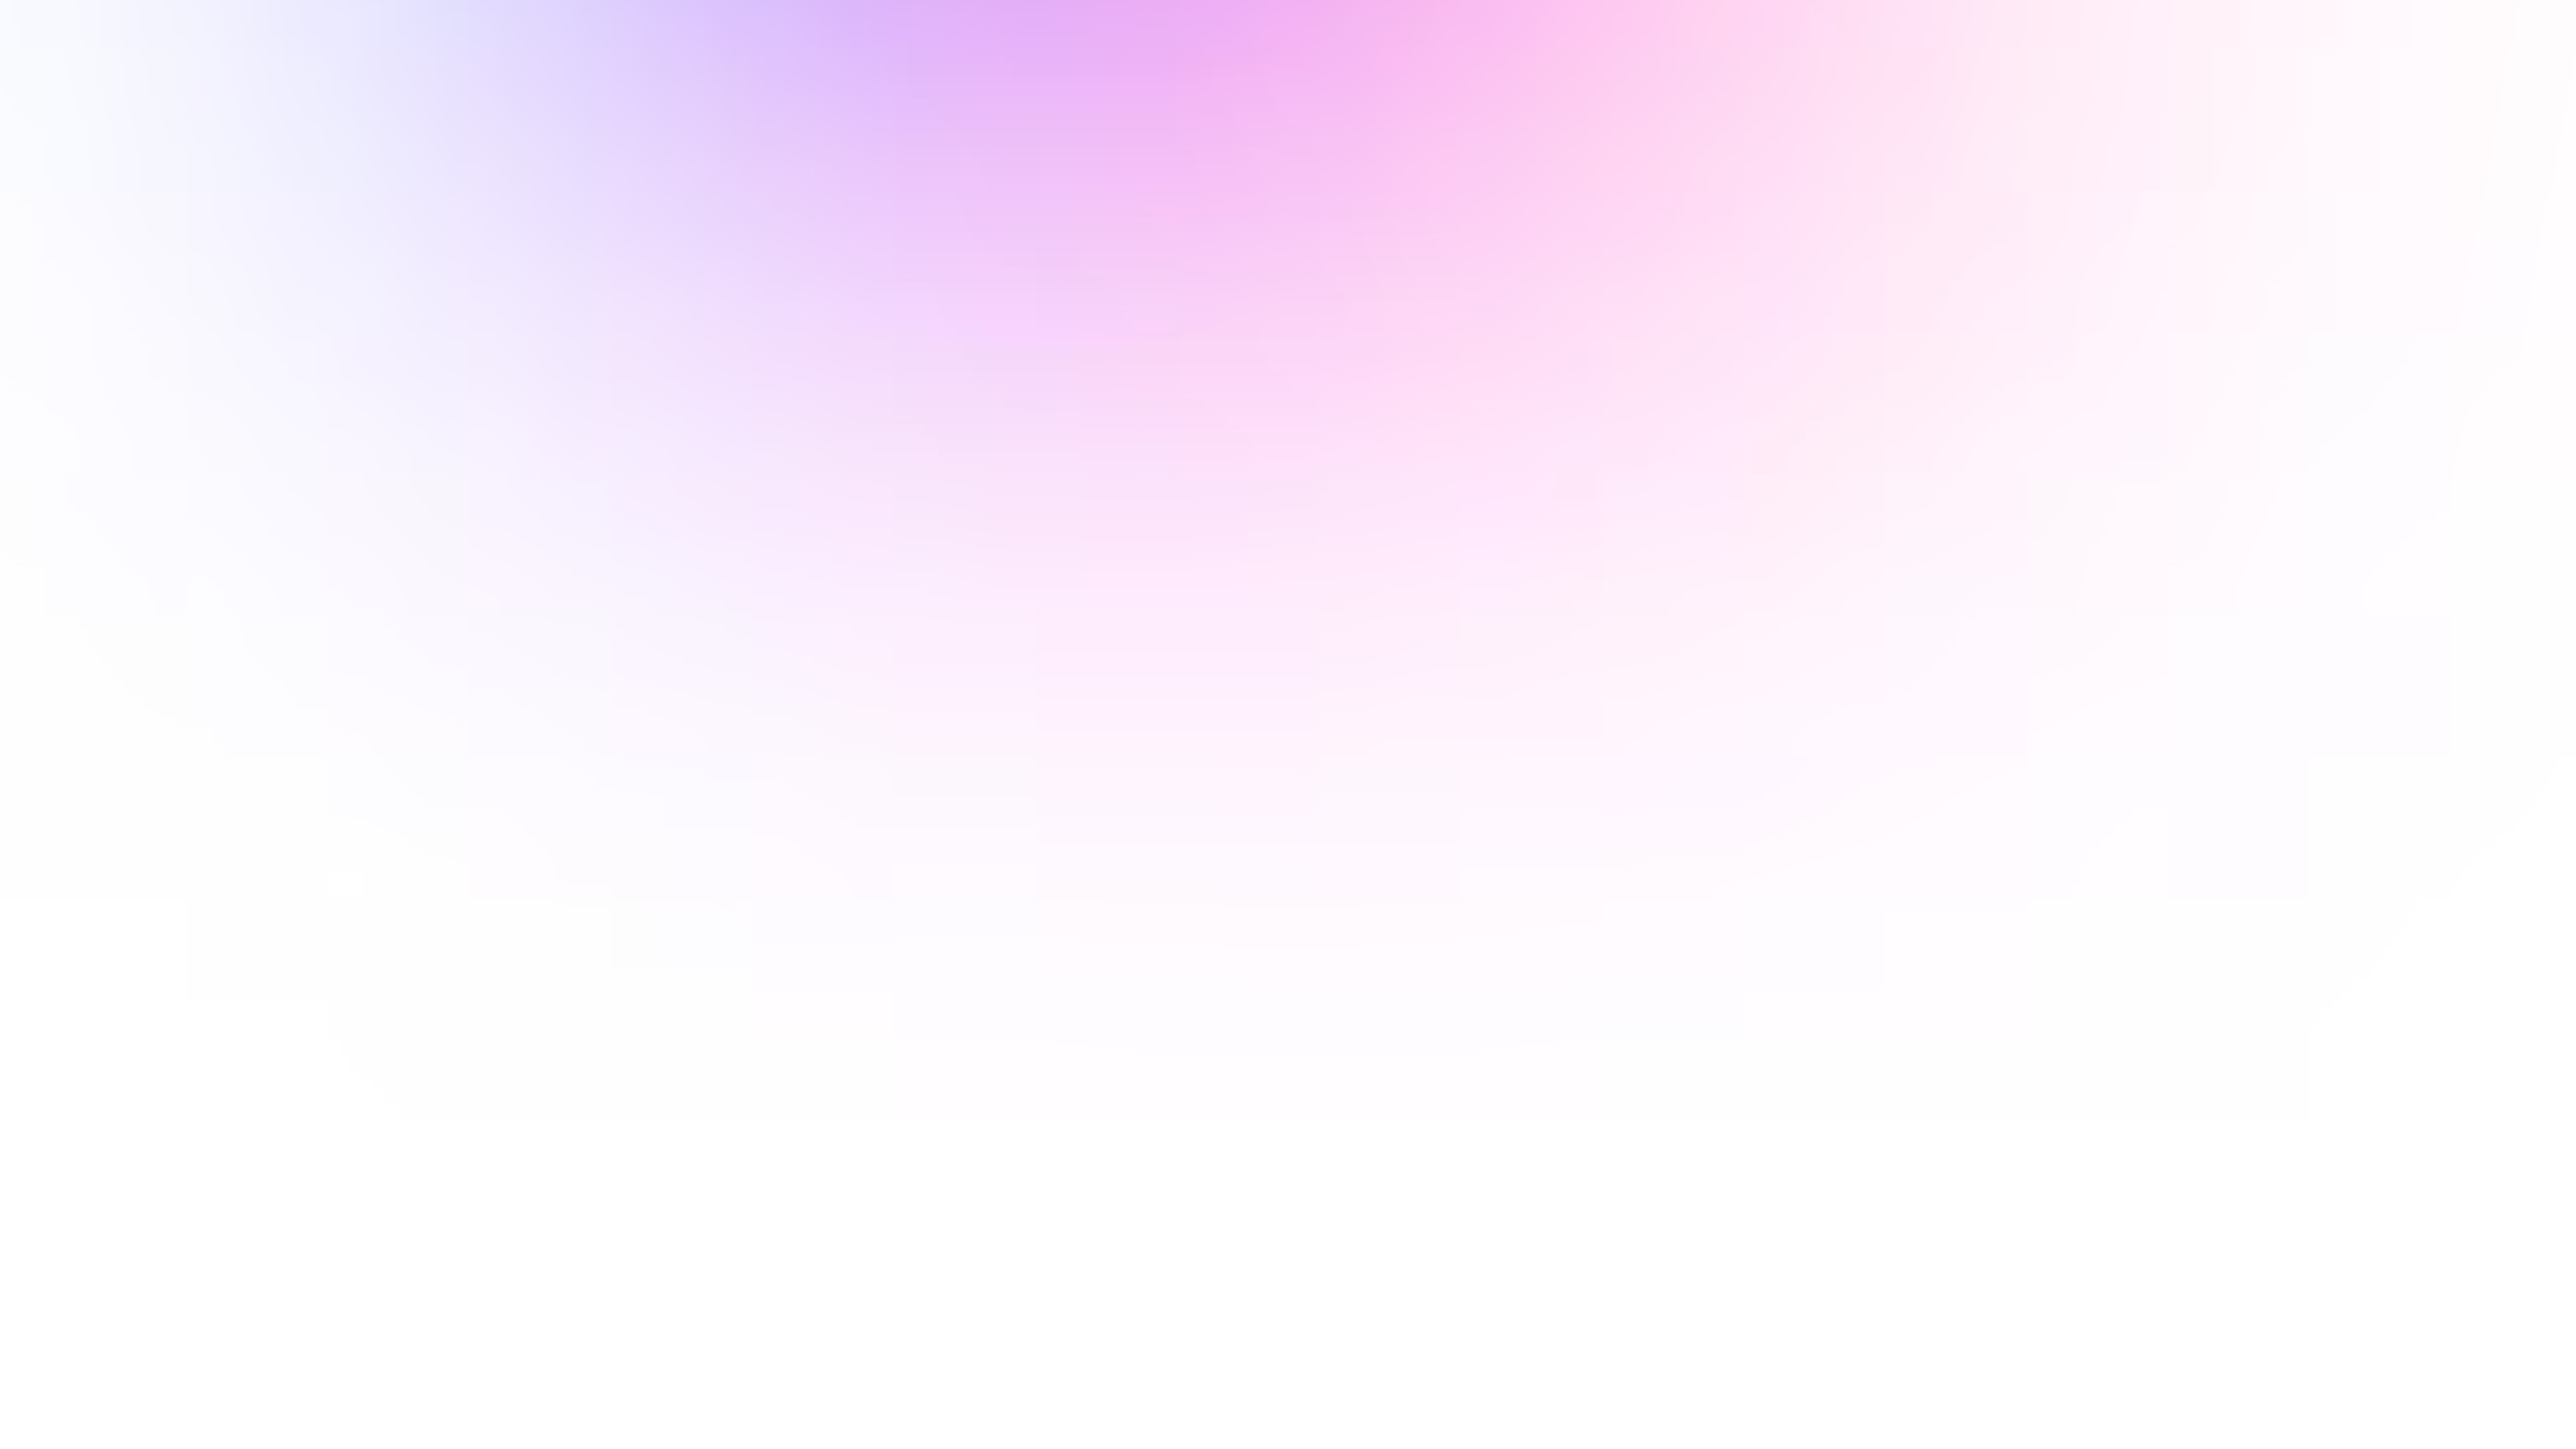
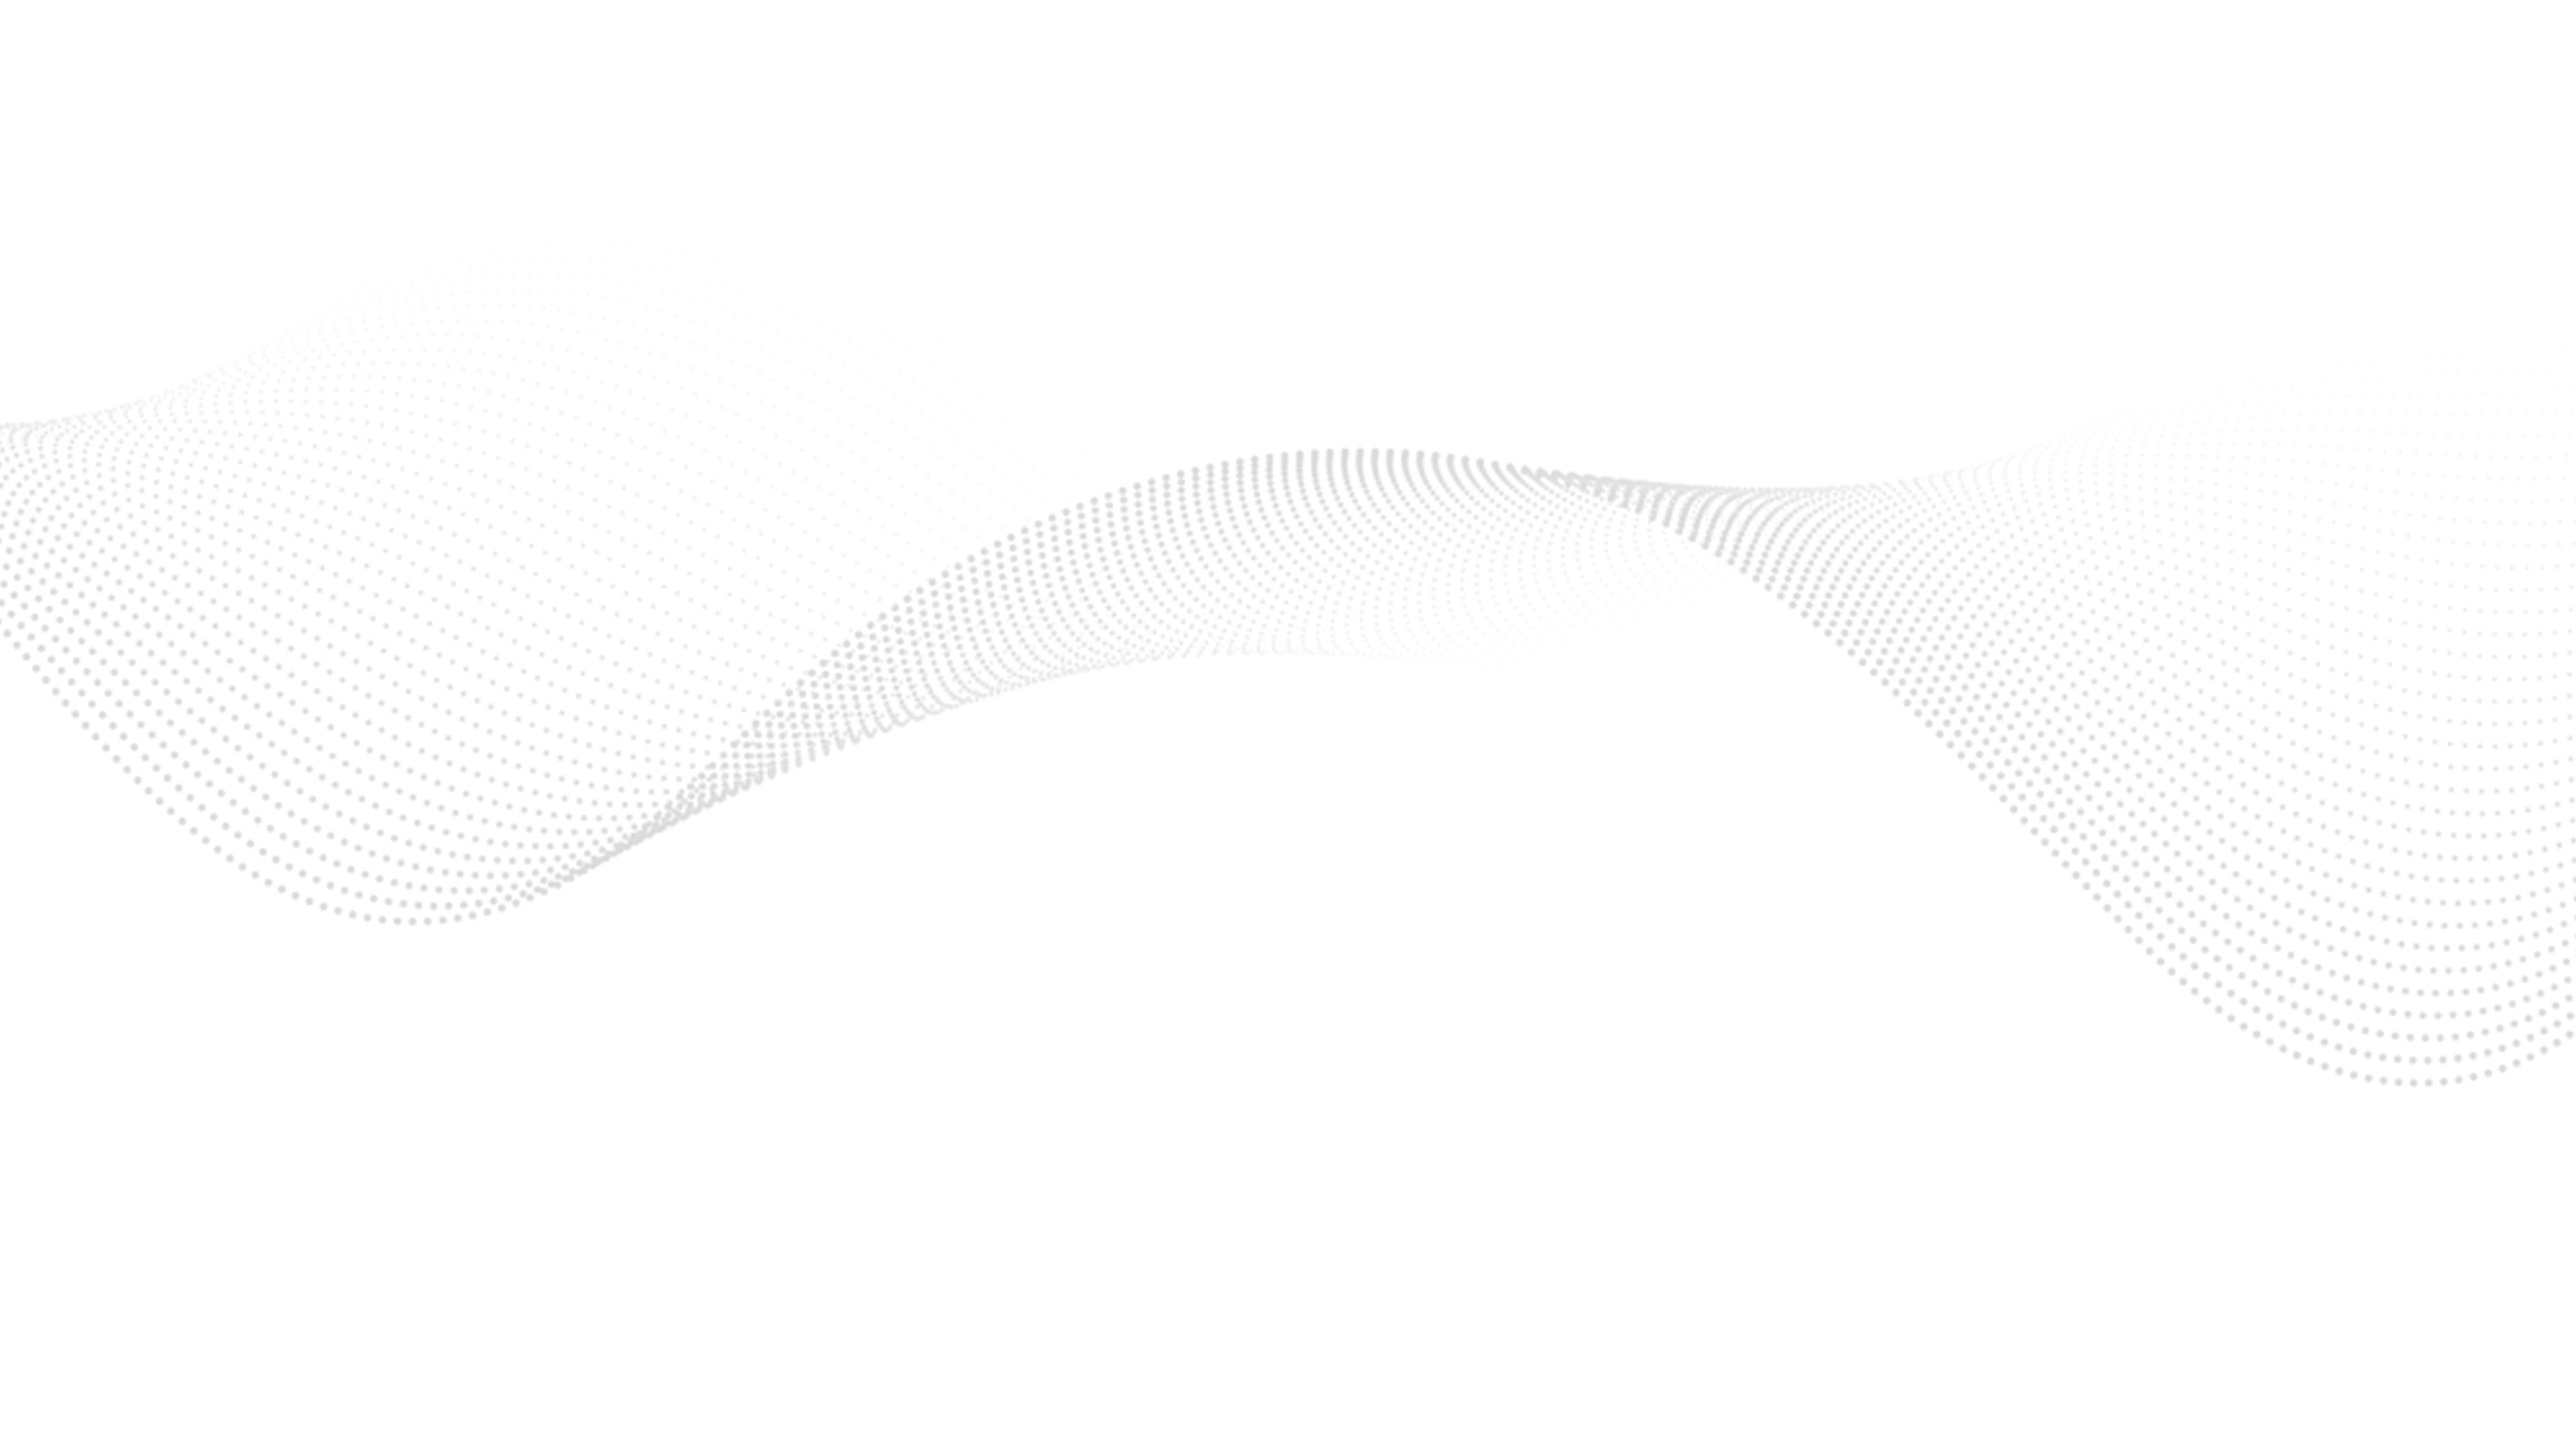
animation & bg change

diff --git a/index.html b/index.html
@@ -34,7 +34,7 @@
 <link href="https://fonts.googleapis.com/css2?family=Roboto:ital,wght@0,100..900;1,100..900&display=swap" rel="stylesheet">
     <!-- END Stylsheet link here -->
 </head>
-<body >
+<body class="profile__border">
     <img class="image-back" src="image/bg_top.png" />
     <div class="container nav-behind">
         <header class="d-flex flex-wrap align-items-center justify-content-center justify-content-md-between py-3 mb-4">
@@ -52,7 +52,7 @@
     
           <div class="col-md-3 text-end">
             <!-- <button type="button" class="btn btn-outline-primary me-2">Login</button> -->
-            <button type="button" class="btn custom-btn">Say Hello 💬</button>
+            <a href="mailto:iniyavaniniya3@gmail.com" type="button" class="btn custom-btn">Say Hello 💬</a>
           </div>
         </header>
       </div>
@@ -60,9 +60,9 @@
     <div class="container">
         <div class="col-md-7 mt-12 px-8 py-5 my-5 text-left">
             <!-- <img class="d-block mx-auto mb-4" src="/docs/5.3/assets/brand/bootstrap-logo.svg" alt="" width="72" height="57"> -->
-            <h1 class="display-5 fw-bold text-body-emphasis">Transform ideas into vibrant digital realities, built pixel by pixel.</h1>
+            <h1 class="one display-5 fw-bold text-body-emphasis">Transform ideas into vibrant digital realities, built pixel by pixel.</h1>
             <div class="col-md-12 ">
-              <p class="lead mb-5 mx-auto">Iniyavan Mageshwaran — a designer from Tamil Nadu, is currently shaping user experiences as a <b>Senior Designer</b> at Nithra Apps.</p>
+              <p class="one lead mb-5 mx-auto">Iniyavan Mageshwaran — a designer from Tamil Nadu, is currently shaping user experiences as a <b>Senior Designer</b> at Nithra Apps.</p>
               <!-- <div class="d-grid gap-2 d-sm-flex justify-content-sm-left">
                 <button type="button" class="btn btn-primary btn-lg px-4 gap-3">Primary button</button>
                 <button type="button" class="btn btn-outline-secondary btn-lg px-4">Secondary</button>
@@ -73,7 +73,7 @@
     <main class="container">
       <div class="col-md-12 row">
         <div class="col-md-6 mt-4">
-          <a class="card card-c">
+          <a class="card card-c two">
             <img class="card-img-top " style="border-radius: 20px;" src="https://www.niklaspeterson.com/_next/image?url=%2Flummi-plugin.png&w=1920&q=75" alt="Card image cap">
             <div class="card-body">
               <h5 class="card-title card_lable">Lummi Figma plugin</h5>
@@ -83,7 +83,7 @@
           </a>
         </div>
         <div class="col-md-6 mt-4">
-          <a class="card card-c">
+          <a class="card card-c two">
             <img class="card-img-top" style="border-radius: 20px;" src="https://www.niklaspeterson.com/_next/image?url=%2Flummi-plugin.png&w=1920&q=75" alt="Card image cap">
             <div class="card-body" style="border-style: none;">
               <h5 class="card-title card_lable">Card title</h5>
@@ -93,7 +93,7 @@
           </a>
         </div>
         <div class="col-md-6 mt-4">
-          <a class="card card-c">
+          <a class="card card-c two">
             <img class="card-img-top " style="border-radius: 20px;" src="https://www.niklaspeterson.com/_next/image?url=%2Flummi-plugin.png&w=1920&q=75" alt="Card image cap">
             <div class="card-body">
               <h5 class="card-title card_lable">Card title</h5>
@@ -103,7 +103,7 @@
           </a>
         </div>
         <div class="col-md-6 mt-4">
-          <a class="card card-c">
+          <a class="card card-c two">
             <img class="card-img-top " style="border-radius: 20px;" src="https://www.niklaspeterson.com/_next/image?url=%2Flummi-plugin.png&w=1920&q=75" alt="Card image cap">
             <div class="card-body">
               <h5 class="card-title card_lable">Card title</h5>
@@ -136,13 +136,13 @@
       <div class="container col-xxl-8 px-4 py-5">
         <div class="row flex-lg-row-reverse align-items-center g-5 py-5">
           <div class="col-md-12 col-lg-6">
-            <img src="https://iniyavandesign.github.io/image/home.png" class="d-block mx-lg-auto img-fluid" alt="Bootstrap Themes" loading="lazy">
+            <img src="https://iniyavandesign.github.io/image/home.png" class="four d-block mx-lg-auto img-fluid" alt="Bootstrap Themes" loading="lazy">
           </div>
           <div class="col-lg-6">
-            <h1 class="display-5 fw-bold lh-1 mb-3">About Me</h1>
-            <p class="lead">I'm <b>Iniyavan Mageshwaran</b> is a self-taught UX/UI Designer with 6+ years of experience, currently working as a Senior Designer at Nithra Apps India Private Limited. Passionate about design, he started learning independently through books, articles, and online courses.</p>
-            <p class="lead">His dedication and hands-on practice led him to exciting projects and continuous growth in the field. He believes that with hard work and perseverance, anyone can master UX/UI design.</p>
-            <div class="d-grid gap-2 d-md-flex justify-content-md-start">
+            <h1 class="three display-5 fw-bold lh-1 mb-3">About Me</h1>
+            <p class="three lead">I'm <b>Iniyavan Mageshwaran</b> is a self-taught UX/UI Designer with 6+ years of experience, currently working as a Senior Designer at Nithra Apps India Private Limited. Passionate about design, he started learning independently through books, articles, and online courses.</p>
+            <p class="three lead">His dedication and hands-on practice led him to exciting projects and continuous growth in the field. He believes that with hard work and perseverance, anyone can master UX/UI design.</p>
+            <div class="three d-grid gap-2 d-md-flex justify-content-md-start">
               <button type="button" class="btn custom-btn btn-lg px-4 me-md-2">Support my work</button>
               <button type="button" class="btn out-custom-btn  btn-lg px-4"">Download CV</button>
             </div>
@@ -155,7 +155,7 @@
       <img class="bottom-image" src="image/bg_bottom.png" />
     </main>
 
-    <main class="footer-image" style="flex: 2;">
+    <main class="footer-image five" style="flex: 2;">
       <div class="container col-xxl-8 px-4 py-5">
         <div class="row flex-lg-row-reverse align-items-center g-5 py-5">
           <div class="col-10 col-sm-8 col-lg-6">

diff --git a/js/custom.js b/js/custom.js
@@ -7,8 +7,8 @@ const sr = ScrollReveal({
   });
   `q`
   sr.reveal(`.profile__border`);
-  sr.reveal(`.header_section`, { delay: 500 });
-  sr.reveal(`.filters`, { delay: 500 });
-  sr.reveal(`.third`, { delay: 1500 });
+  sr.reveal(`.one`, { delay: 500 });
+  sr.reveal(`.two`, { delay: 500 });
+  sr.reveal(`.three`, { delay: 1500 });
   sr.reveal(`.four`, { delay: 2000 });
   sr.reveal(`.five`, { delay: 2500 });N

diff --git a/css/custom.css b/css/custom.css
@@ -12,7 +12,7 @@
 
 .image-back{
     width: 100%;
-    height: 350px;
+    height: 450px;
     position: absolute;
     z-index: -1;
 }
